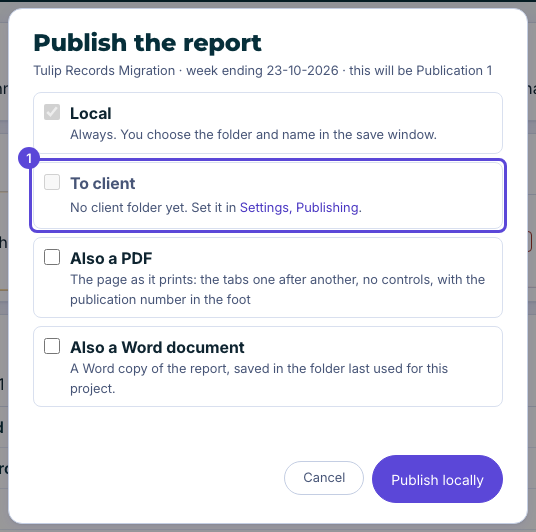
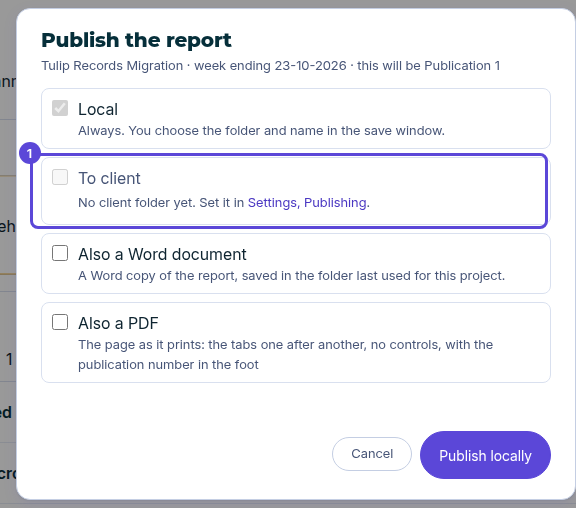
#796: the Publish box as the prototype draws it: Word before PDF, option titles not bold, 560 px wide, heading on the h3 size
The Help lines that list the two ticks follow the new order (the same words, reordered); the Help picture of the box is retaken.
The descriptions keep their words: the prototype's longer ones are new words in clark and wait for the owner.

diff --git a/src/clark/page/src/edit/Publish.jsx b/src/clark/page/src/edit/Publish.jsx
@@ -83,12 +83,13 @@ function Dialog() {
               <span><b>Local</b><small>Always. You choose the folder and name in the save window.</small></span></label>
             <label class={`pubopt${s.saved ? "" : " off"}`}><input type="checkbox" id="pub-client" checked={s.ticked} disabled={!s.saved || working} onChange={(e) => tick(e.currentTarget.checked)} />
               <span><b>To client</b><small>{s.saved ? `Copied to the client folder: ${folderName(s.saved)}` : <>{NO_FOLDER_LEAD}<button type="button" class="link" id="pub-to-set" disabled={working} onClick={toPublishingCard}>{NO_FOLDER_LINK}</button>.</>}</small></span></label>
-            {/* the prototype's words (system/prototype/io.js:348); the note under the tick (WORDING: owner to rule) */}
+            {/* #796: Word before PDF, the prototype's order (system/prototype/io.js:348-349) */}
+            <label class="pubopt"><input type="checkbox" id="pub-word" checked={s.word} disabled={working} onChange={(e) => tickWord(e.currentTarget.checked)} />
+              <span><b>Also a Word document</b><small>A Word copy of the report, saved in the folder last used for this project.</small></span></label>
+            {/* the prototype's words (system/prototype/io.js:349); the note under the tick (WORDING: owner to rule) */}
             <label class="pubopt"><input type="checkbox" id="pub-pdf" checked={s.pdf} disabled={working} onChange={(e) => tickPdf(e.currentTarget.checked)} />
               <span><b>Also a PDF</b><small>The page as it prints: the tabs one after another, no controls, with the publication number in the foot</small>
                 {s.pdf ? <small id="pub-pdf-note">Your browser’s print box opens; choose Save as PDF. In the print box, untick Headers and footers, so the PDF carries no web address.</small> : null}</span></label>
-            <label class="pubopt"><input type="checkbox" id="pub-word" checked={s.word} disabled={working} onChange={(e) => tickWord(e.currentTarget.checked)} />
-              <span><b>Also a Word document</b><small>A Word copy of the report, saved in the folder last used for this project.</small></span></label>
           </div>
         )}
         {/* item 437 rows 29 and 56: the second sentence is the prototype's (io.js, #pubWarn) */}

diff --git a/src/clark/page/src/edit/edit.css b/src/clark/page/src/edit/edit.css
@@ -797,3 +797,7 @@ textarea.grow.grow { resize: vertical; overflow: hidden; min-height: 6rem; min-h
 .rt-host { min-height: 6rem; min-height: calc(3lh + 1rem); resize: vertical; overflow: auto; }
 .rt-host .ProseMirror { min-height: 3lh; padding-bottom: 1lh; }
 .de-preview { min-height: calc(3lh + 1.5rem); max-height: 60vh; resize: vertical; }
+/* #796: the Publish box as the prototype draws it (system/prototype/app.css: dialog 560 px, .pubopt b not bold); the heading one step down the scale */
+#publish-dialog { width: min(560px, calc(100vw - 32px)); }
+#publish-dialog h2 { font-size: var(--size-h3); }
+.pubopt b { font-weight: var(--weight-regular); }

diff --git a/tests/test_publish_dialog.py b/tests/test_publish_dialog.py
@@ -159,9 +159,9 @@ class Dialog(Base):
             p.key(" ", code="Space", vk=32)
             p.until("document.querySelector('#pub-client').checked", "Space ticks it")
             p.key("Tab", code="Tab", vk=9)
-            self.assertEqual(p.js("document.activeElement.id"), "pub-pdf", "Tab goes to the PDF tick, then the Word tick")
+            self.assertEqual(p.js("document.activeElement.id"), "pub-word", "Tab goes to the Word tick, then the PDF tick (#796)")
             p.key("Tab", code="Tab", vk=9)
-            self.assertEqual(p.js("document.activeElement.id"), "pub-word", "Tab goes to the Word tick, then Cancel")
+            self.assertEqual(p.js("document.activeElement.id"), "pub-pdf", "Tab goes to the PDF tick, then Cancel")
             p.key("Tab", code="Tab", vk=9)
             self.assertEqual(p.js("document.activeElement.hasAttribute('data-cancel')"), True, "then to the button")
             p.key("Tab", code="Tab", vk=9)
@@ -175,6 +175,24 @@ class Dialog(Base):
             p.key("Enter", code="Enter", vk=13)         # Enter on the tick submits: Local only
             p.until("document.querySelector('[data-go]').classList.contains('ok')", "Enter published")
             self.assertEqual(len(self.rig.rows()), 1)
+
+    def test_C_the_box_is_drawn_as_the_prototype_draws_it(self):
+        # #796: Word before PDF (system/prototype/io.js), option titles not bold, the box 560 px wide and its heading on the h3 size
+        with chrome() as cdp:
+            p = self.page(cdp)
+            p.width(1400)
+            p.open_publish()
+            p.until("document.getAnimations().length === 0", "the box has finished opening")
+            self.assertEqual(p.js("Array.from(document.querySelectorAll('#publish-dialog .pubopts > label input')).map(function(i){return i.id})"),
+                             ["pub-local", "pub-client", "pub-word", "pub-pdf"], "Local, To client, Word, PDF")
+            self.assertEqual(p.js("Array.from(document.querySelectorAll('#publish-dialog .pubopt b')).map(function(b){return getComputedStyle(b).fontWeight})"),
+                             ["400"] * 4, "the option titles are not bold")
+            self.assertEqual(p.js("Math.round(document.querySelector('#publish-dialog').getBoundingClientRect().width)"), 560)
+            self.assertEqual(p.js("getComputedStyle(document.querySelector('#pub-title')).fontSize"), "20px")
+            p.width(500)
+            p.until("document.getAnimations().length === 0", "settled at 500")
+            self.assertTrue(p.js("(function(){var r=document.querySelector('#publish-dialog').getBoundingClientRect();return r.left >= 0 && r.right <= document.documentElement.clientWidth && r.width < 560})()"),
+                            "it never runs off a narrow window")
 
     def test_C_reopen_is_unticked_after_a_client_publish(self):
         with chrome() as cdp:
